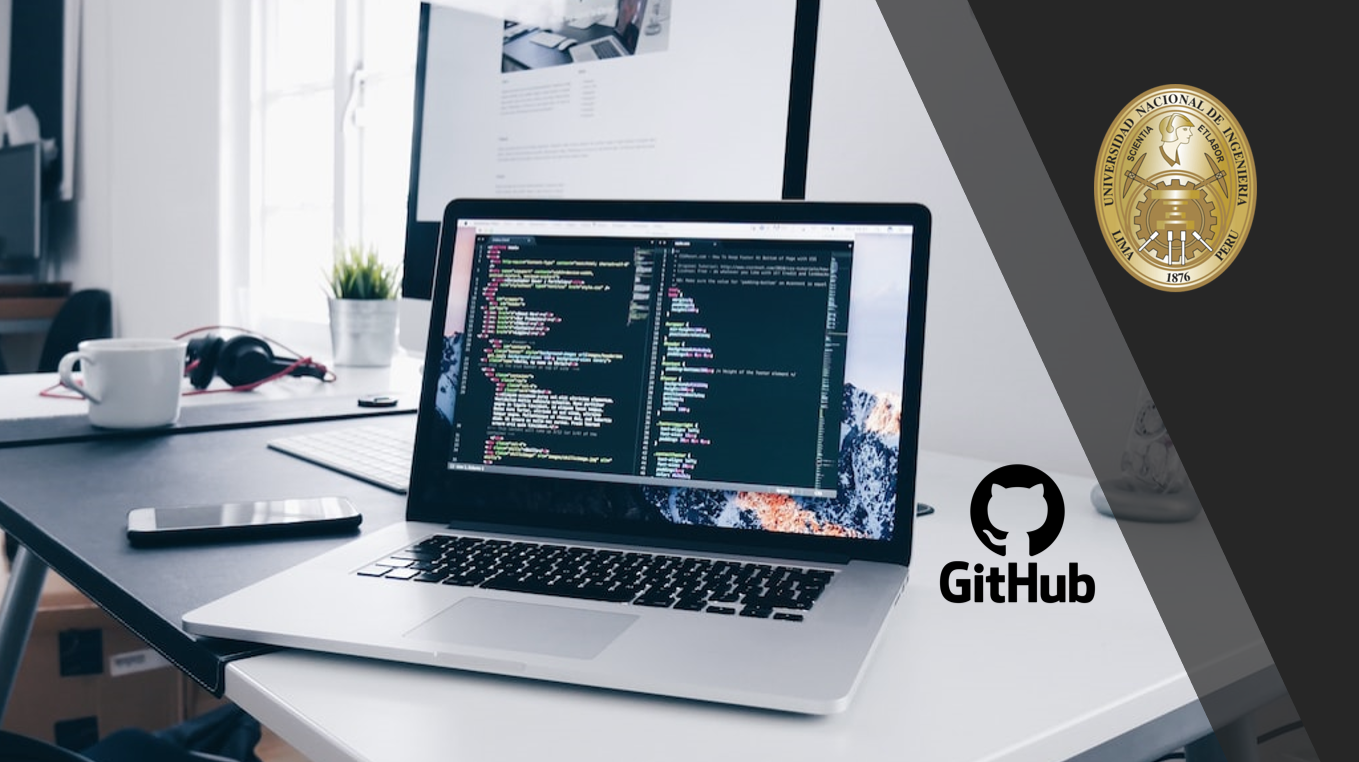
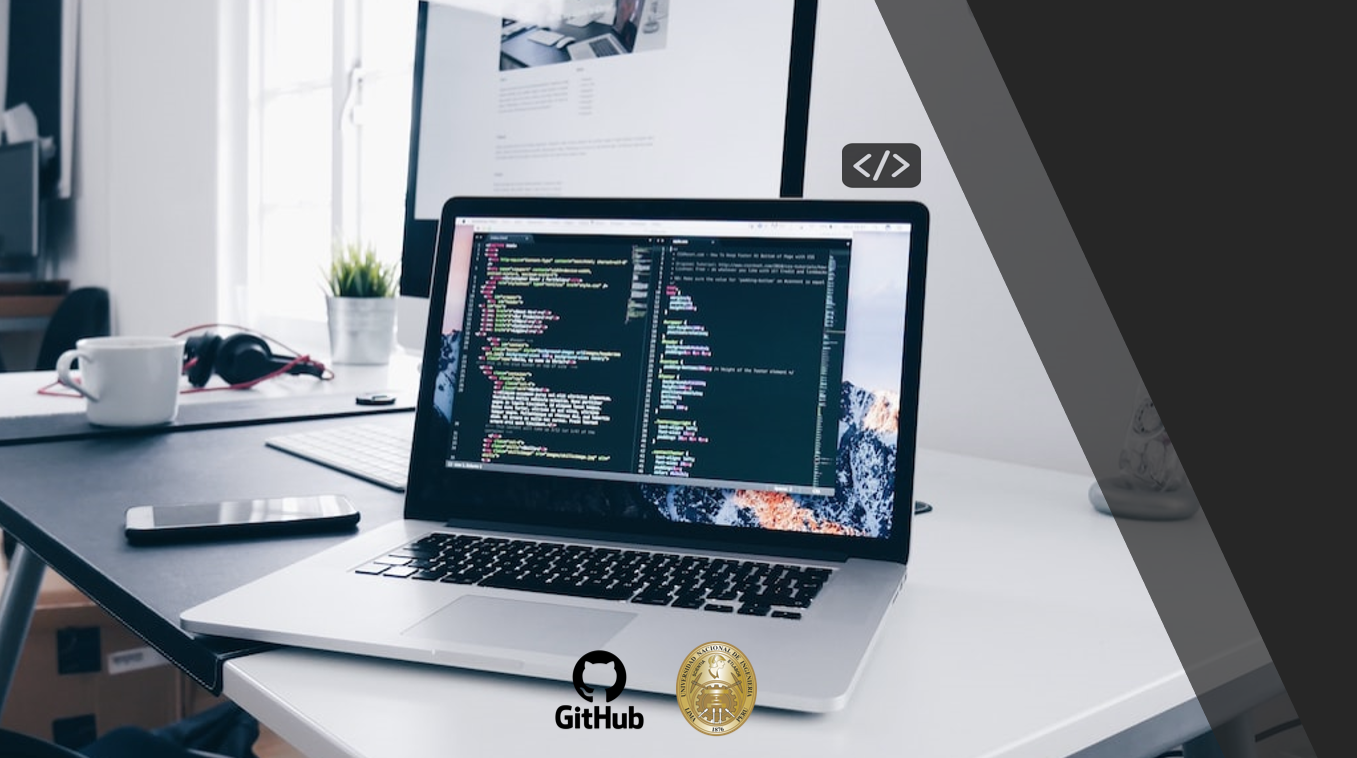
modified services

diff --git a/index.html b/index.html
@@ -36,7 +36,7 @@
                         <li class="nav-item"><a class="nav-link" href="#services">Services</a></li>
                         <li class="nav-item"><a class="nav-link" href="#portfolio">Portfolio</a></li>
                         <li class="nav-item"><a class="nav-link" href="#about">About</a></li>
-                        <li class="nav-item"><a class="nav-link" href="#team">Team</a></li>
+                        <!-- <li class="nav-item"><a class="nav-link" href="#team">Team</a></li> -->
                         <li class="nav-item"><a class="nav-link" href="#contact">Contact</a></li>
                     </ul>
                 </div>
@@ -56,42 +56,51 @@
             <div class="container">
                 <div class="text-center">
                     <h2 class="section-heading text-uppercase">Services</h2>
-                    <h3 class="section-subheading text-muted">Lorem ipsum dolor sit amet consectetur.</h3>
+                    <h3 class="section-subheading text-muted">"If you can imagine it, you can program it"</h3>
                 </div>
                 <div class="row text-center">
-                    <div class="col-md-4">
+                    <!-- <div class="col-md-4">
                         <span class="fa-stack fa-4x">
                             <i class="fas fa-circle fa-stack-2x text-primary"></i>
                             <i class="fas fa-shopping-cart fa-stack-1x fa-inverse"></i>
                         </span>
                         <h4 class="my-3">E-Commerce</h4>
                         <p class="text-muted">Lorem ipsum dolor sit amet, consectetur adipisicing elit. Minima maxime quam architecto quo inventore harum ex magni, dicta impedit.</p>
+                    </div> -->
+                    <div class="col-md-4">
+                        <span class="fa-stack fa-4x">
+                            <i class="fas fa-circle fa-stack-2x text-primary"></i>
+                            <i class="fas fa-code fa-stack-1x fa-inverse"></i>
+                        </span>
+                        <h4 class="my-3">Jr developer</h4>
+                        <p class="text-muted">Knowledge of basic-intermediate full stack development, GUI development with Python, SQL server and MySQL databases, database storage in Azure, data analysis with Python.</p>
                     </div>
                     <div class="col-md-4">
                         <span class="fa-stack fa-4x">
                             <i class="fas fa-circle fa-stack-2x text-primary"></i>
-                            <i class="fas fa-laptop fa-stack-1x fa-inverse"></i>
+                            <i class='fas fa-robot fa-stack-1x fa-inverse'></i> <!-- <i class="fas fa-lock fa-stack-1x fa-inverse"></i> -->
                         </span>
-                        <h4 class="my-3">Responsive Design</h4>
-                        <p class="text-muted">Lorem ipsum dolor sit amet, consectetur adipisicing elit. Minima maxime quam architecto quo inventore harum ex magni, dicta impedit.</p>
+                        <h4 class="my-3">Robotics teacher</h4>
+                        <p class="text-muted">Knowledge of the mathematical model, kinematics and dynamics of a robot, simulation of a basic and advanced control with Matlab.</p>
                     </div>
                     <div class="col-md-4">
                         <span class="fa-stack fa-4x">
                             <i class="fas fa-circle fa-stack-2x text-primary"></i>
-                            <i class="fas fa-lock fa-stack-1x fa-inverse"></i>
+                            <i class='fas fa-user-tie fa-stack-1x fa-inverse'></i> <!-- <i class="fas fa-lock fa-stack-1x fa-inverse"></i> -->
                         </span>
-                        <h4 class="my-3">Web Security</h4>
-                        <p class="text-muted">Lorem ipsum dolor sit amet, consectetur adipisicing elit. Minima maxime quam architecto quo inventore harum ex magni, dicta impedit.</p>
+                        <h4 class="my-3">Math advisor</h4>
+                        <p class="text-muted">Solid knowledge in differential and integral calculus, advanced mathematics and preparation for applicants to universities such as UNI, UNMSM, etc.</p>
                     </div>
                 </div>
             </div>
         </section>
+
         <!-- Portfolio Grid-->
         <section class="page-section bg-light" id="portfolio">
             <div class="container">
                 <div class="text-center">
                     <h2 class="section-heading text-uppercase">Portfolio</h2>
-                    <h3 class="section-subheading text-muted">Lorem ipsum dolor sit amet consectetur.</h3>
+                    <h3 class="section-subheading text-muted">"All achievement begins with the decision to try"</h3>
                 </div>
                 <div class="row">
                     <div class="col-lg-4 col-sm-6 mb-4">
@@ -101,11 +110,11 @@
                                 <div class="portfolio-hover">
                                     <div class="portfolio-hover-content"><i class="fas fa-plus fa-3x"></i></div>
                                 </div>
-                                <img class="img-fluid" src="assets/img/portfolio/1.jpg" alt="..." />
+                                <img class="img-fluid" src="assets/img/portfolio/DIPLOMA_BACHILLER.jpg" alt="..." />
                             </a>
                             <div class="portfolio-caption">
-                                <div class="portfolio-caption-heading">Threads</div>
-                                <div class="portfolio-caption-subheading text-muted">Illustration</div>
+                                <div class="portfolio-caption-heading">Studies</div>
+                                <div class="portfolio-caption-subheading text-muted">Bachelor's degree</div>
                             </div>
                         </div>
                     </div>
@@ -187,6 +196,7 @@
                 </div>
             </div>
         </section>
+
         <!-- About-->
         <section class="page-section" id="about">
             <div class="container">
@@ -249,8 +259,9 @@
                 </ul>
             </div>
         </section>
+
         <!-- Team-->
-        <section class="page-section bg-light" id="team">
+        <!-- <section class="page-section bg-light" id="team">
             <div class="container">
                 <div class="text-center">
                     <h2 class="section-heading text-uppercase">Our Amazing Team</h2>
@@ -292,7 +303,7 @@
                     <div class="col-lg-8 mx-auto text-center"><p class="large text-muted">Lorem ipsum dolor sit amet, consectetur adipisicing elit. Aut eaque, laboriosam veritatis, quos non quis ad perspiciatis, totam corporis ea, alias ut unde.</p></div>
                 </div>
             </div>
-        </section>
+        </section> -->
         <!-- Clients-->
         <div class="py-5">
             <div class="container">
@@ -405,11 +416,11 @@
                             <div class="col-lg-8">
                                 <div class="modal-body">
                                     <!-- Project details-->
-                                    <h2 class="text-uppercase">Project Name</h2>
-                                    <p class="item-intro text-muted">Lorem ipsum dolor sit amet consectetur.</p>
-                                    <img class="img-fluid d-block mx-auto" src="assets/img/portfolio/1.jpg" alt="..." />
-                                    <p>Use this area to describe your project. Lorem ipsum dolor sit amet, consectetur adipisicing elit. Est blanditiis dolorem culpa incidunt minus dignissimos deserunt repellat aperiam quasi sunt officia expedita beatae cupiditate, maiores repudiandae, nostrum, reiciendis facere nemo!</p>
-                                    <ul class="list-inline">
+                                    <h2 class="text-uppercase">Bachelor's degree</h2>
+                                    <p class="item-intro text-muted">Universidad Nacional de Ingeniería del Perú</p>
+                                    <img class="img-fluid d-block mx-auto" src="assets/img/portfolio/DIPLOMA_BACHILLER.jpg" alt="..." />
+                                    <p>Knowledge acquired in this house of studies such as programming, design of mechanical parts, statistical analysis and basic-intermediate robotics.</p>
+                                    <!-- <ul class="list-inline">
                                         <li>
                                             <strong>Client:</strong>
                                             Threads
@@ -418,10 +429,10 @@
                                             <strong>Category:</strong>
                                             Illustration
                                         </li>
-                                    </ul>
+                                    </ul> -->
                                     <button class="btn btn-primary btn-xl text-uppercase" data-bs-dismiss="modal" type="button">
                                         <i class="fas fa-xmark me-1"></i>
-                                        Close Project
+                                        Close Portfolio
                                     </button>
                                 </div>
                             </div>

diff --git a/css/styles.css b/css/styles.css
@@ -11414,7 +11414,7 @@ header.masthead {
   padding-bottom: 6rem;
   text-align: center;
   color: #fff;
-  background-image: linear-gradient(rgba(0, 0, 0, 0.80), rgba(0, 0, 0, 0.80)), url("../assets/img/master_view.png"); /* background-image: url("../assets/img/master_view.png"); */
+  background-image: linear-gradient(rgba(0, 0, 0, 0.65), rgba(0, 0, 0, 0.65)), url("../assets/img/master_view.png"); /* background-image: url("../assets/img/master_view.png"); */
   background-repeat: no-repeat;
   background-attachment: scroll;
   background-position: center center;
